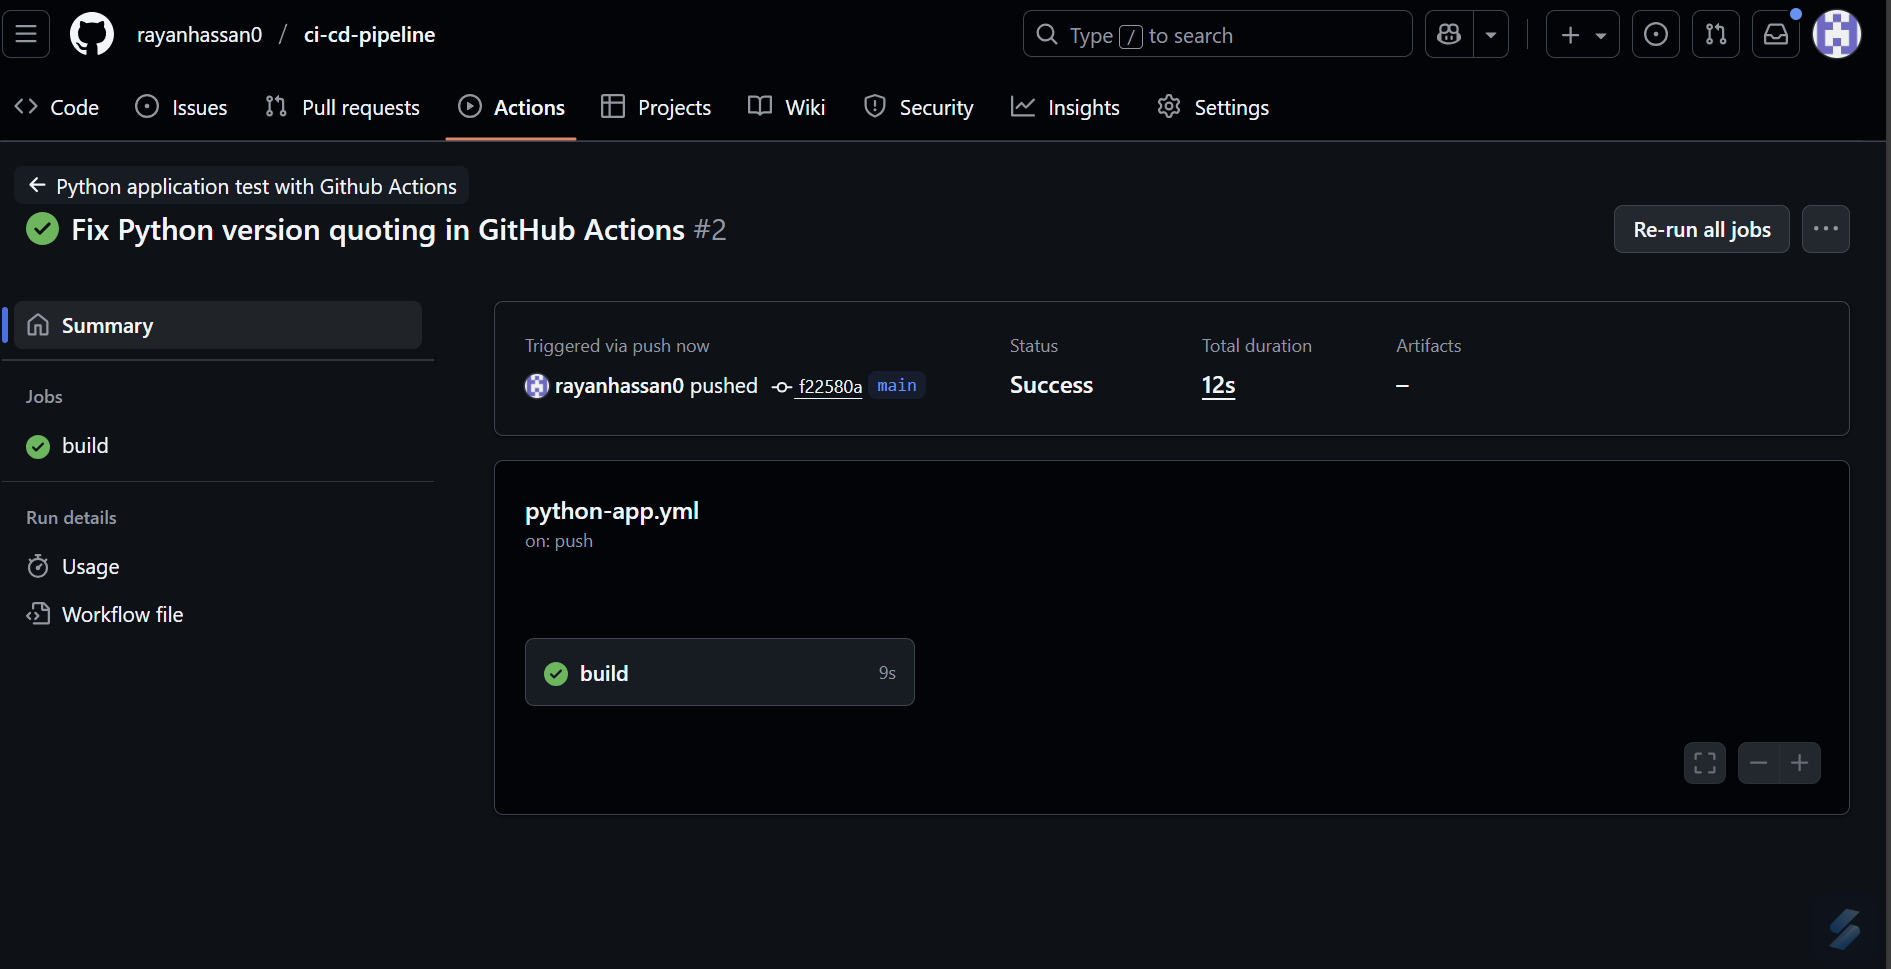
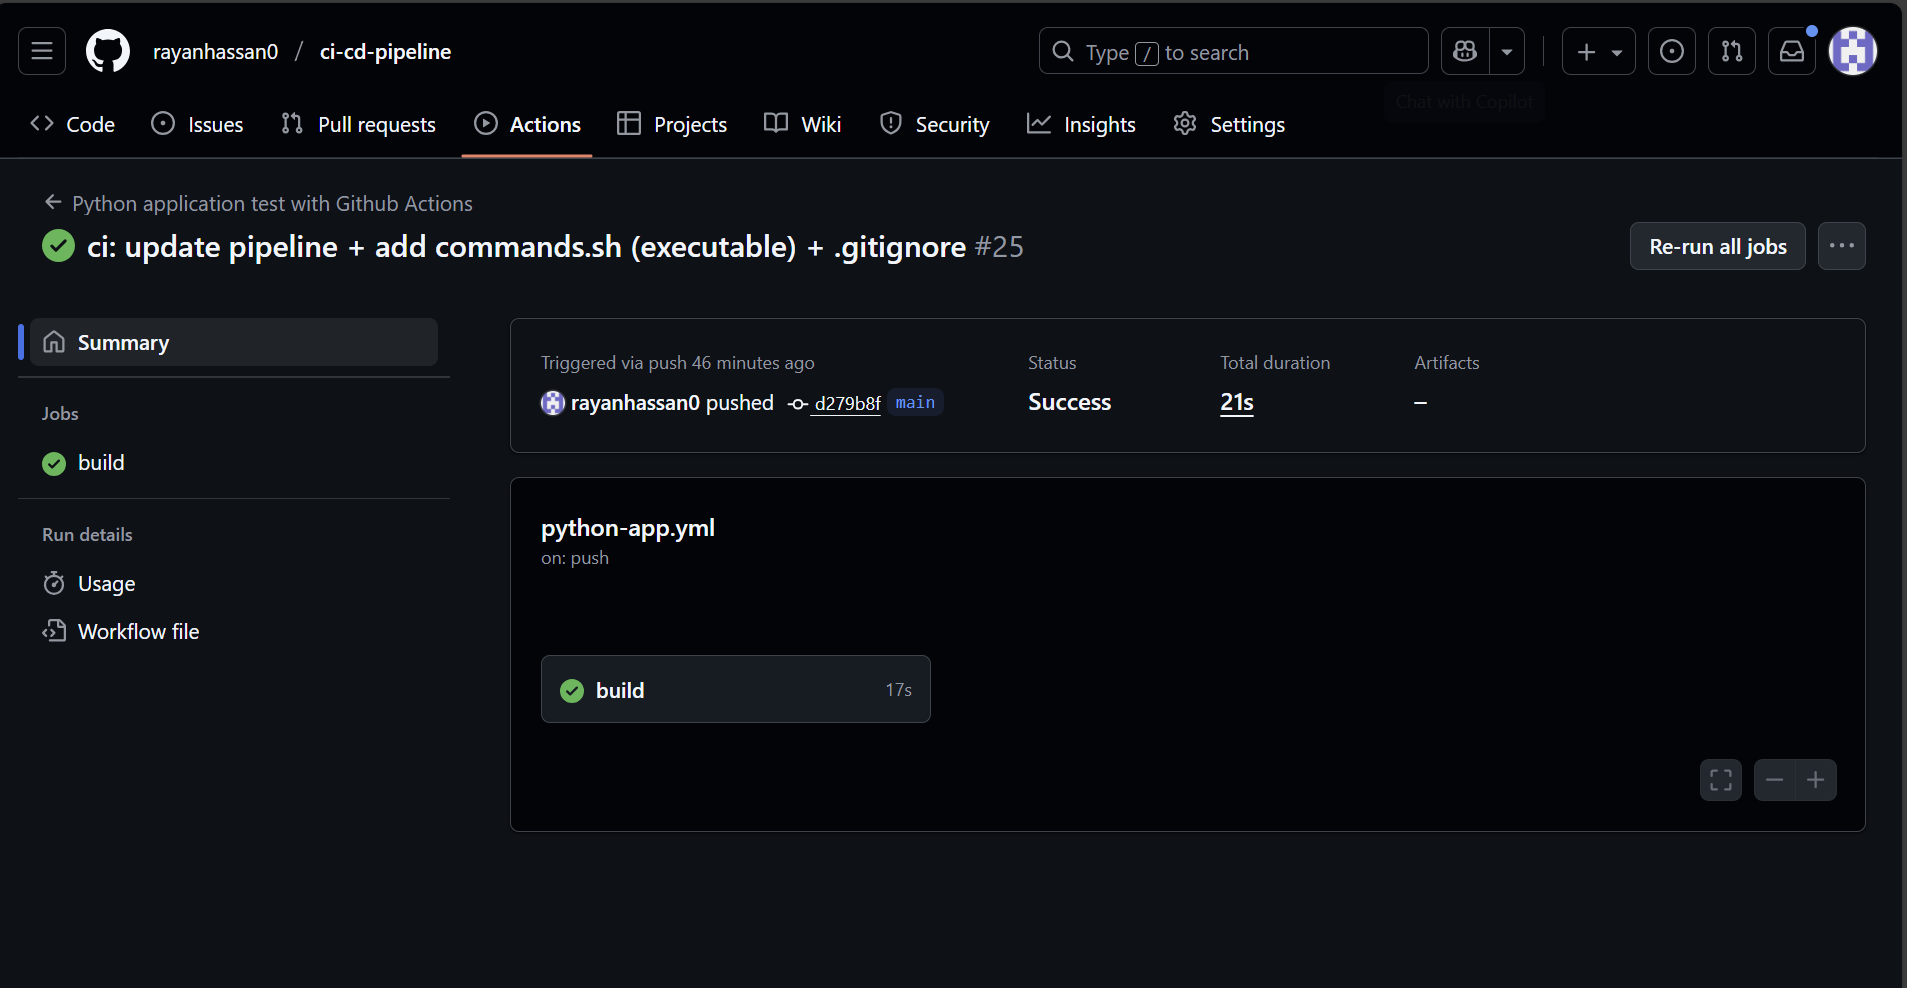
docs: add all screenshots + README updates

diff --git a/README.md b/README.md
@@ -32,4 +32,4 @@ flowchart LR
 ## Project Management
 - **Trello Board:** [CI/CD Pipeline Project Trello Board](https://trello.com/invite/b/68bdf6f0d4f3624dcd1caa4f/ATTI793a346e5d601a2e966a8a1683ede3bcC5C83614/ci-cd-pipeline-project)  
 - **Spreadsheet:** [ci_cd_tasks.xlsx](https://docs.google.com/spreadsheets/d/195USB3uK46NjKlYLbJAeFR8yt1A4te37/edit?usp=sharing&ouid=107624253403469308209&rtpof=true&sd=true)  
-- **Demo Video:https://www.youtube.com/watch?v=-7fA1tD56Ww
+- **Demo Video:https://www.youtube.com/watch?v=kM8p1gKolWk
